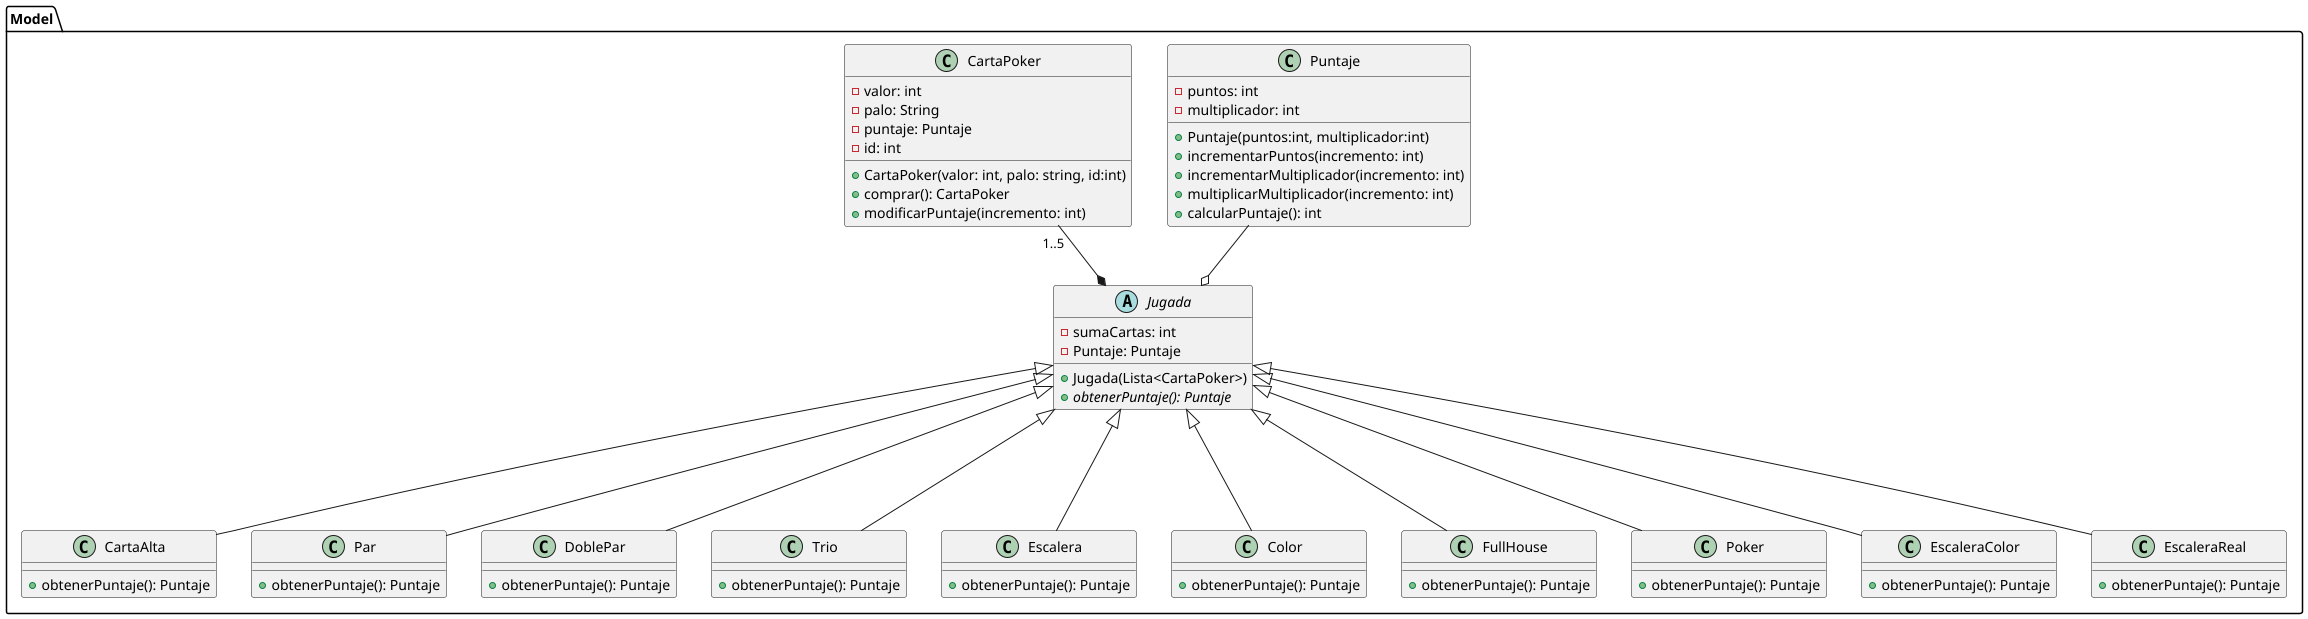
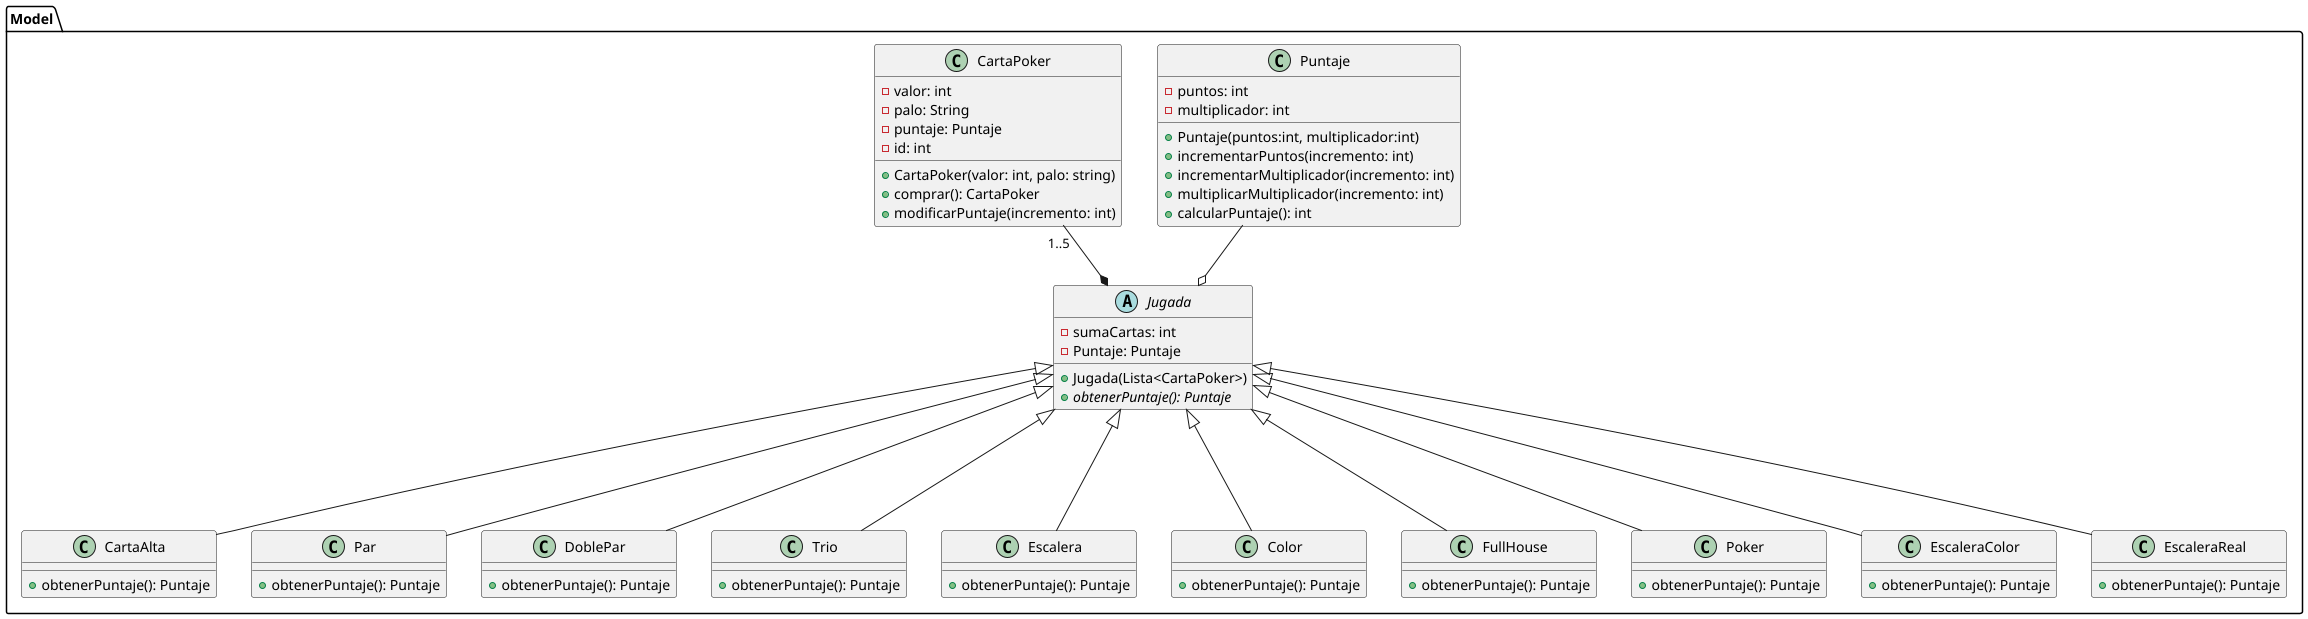
Modificacion auto incremento del ID

diff --git a/src/main/test/edu/fiuba/algo3/entrega_1/CartaPokerTest.java b/src/main/test/edu/fiuba/algo3/entrega_1/CartaPokerTest.java
@@ -13,14 +13,14 @@ public class CartaPokerTest {
 
     @Test
     public void test01AlComprarCartaSeDevuelveASiMisma() {
-        CartaPoker cartaPoker = new CartaPoker(3,"Pica", 1);
+        CartaPoker cartaPoker = new CartaPoker(3,"Pica");
 
         assertSame(cartaPoker, cartaPoker.comprar());
     }
 
     @Test
     public void test02SeCalculaElPuntajeDeLaCarta(){
-        CartaPoker cartaPoker = new CartaPoker(3,"Pica", 1);
+        CartaPoker cartaPoker = new CartaPoker(3,"Pica");
 
         int resultado = cartaPoker.calcularPuntaje();
 
@@ -29,7 +29,7 @@ public class CartaPokerTest {
 
     @Test
     public void test03SeModificaElPuntajeDeLaCarta(){
-        CartaPoker cartaPoker = new CartaPoker(3,"Pica", 1);
+        CartaPoker cartaPoker = new CartaPoker(3,"Pica");
         cartaPoker.modificarPuntaje(3);
         int resultado = cartaPoker.calcularPuntaje();
 
@@ -37,10 +37,13 @@ public class CartaPokerTest {
     }
 
     @Test
-    public void test04SeConsultaSiTieneCiertoId(){
-        CartaPoker cartaPoker = new CartaPoker(7,"Pica", 6);
+    public void test04SeVerificaQueSeAutoIncrementeElID(){
+        CartaPoker cartaPoker1 = new CartaPoker(7,"Pica");
+        CartaPoker cartaPoker2 = new CartaPoker(1, "Diamantes");
 
-        assertTrue(cartaPoker.tieneId(6));
+        assertTrue(cartaPoker1.tieneId(1));
+        assertTrue(cartaPoker2.tieneId(2));
+
     }
 
 }

diff --git a/src/main/java/edu/fiuba/algo3/CartaPoker.java b/src/main/java/edu/fiuba/algo3/CartaPoker.java
@@ -1,16 +1,18 @@
 package edu.fiuba.algo3;
 
 public class CartaPoker {
+    private static int contadorId = 1;
+
     private int valor;
     private String palo;
     private Puntaje puntaje;
-    int id;
+    private int id;
 
-    public CartaPoker(int valor, String palo, int unId){
+    public CartaPoker(int valor, String palo){
         this.valor = valor;
         this.palo = palo;
         this.puntaje = new Puntaje( this.valor, 1);
-        this.id = unId;
+        this.id = contadorId++;
     }
 
     public CartaPoker comprar() {
